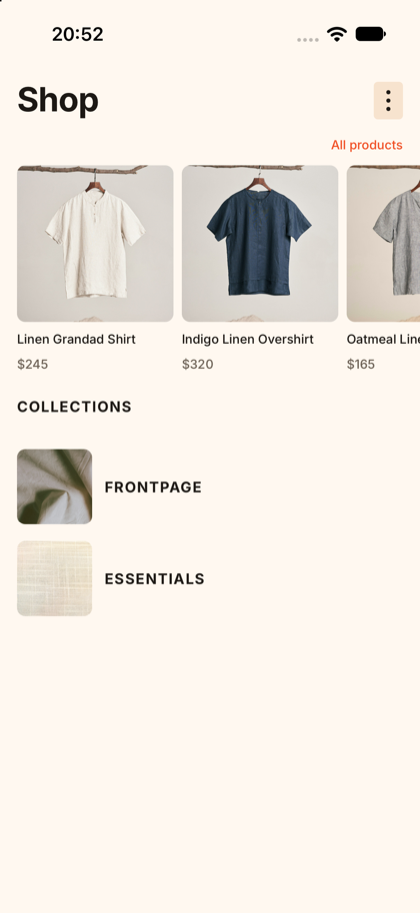
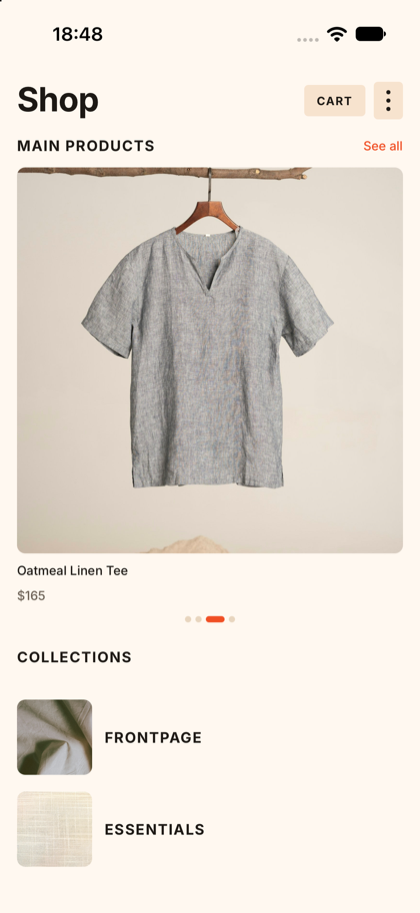
feat(docs): update README and onboarding form with new product display options and clarify image arrangements

diff --git a/README.md b/README.md
@@ -26,7 +26,7 @@ The build ships with both, and you can switch between them on the device —
 | -------------------------------- | ----------------------------------------------------------------------------- | ------------------------------------------------------------------------- |
 | **Home**                         | ![Northstar home](docs/screenshots/home.png)                                  | ![Atlas home](docs/screenshots/atlas-home.png)                            |
 | **Product detail**               | ![Northstar product detail](docs/screenshots/product-detail.png)              | ![Atlas product detail](docs/screenshots/atlas-product-detail.png)        |
-| **Further down the same screen** | ![Northstar care section and variants](docs/screenshots/product-variants.png) | ![Atlas fit and care guides](docs/screenshots/atlas-product-sections.png) |
+| **Further down the same screen** | ![Northstar care section and variants](docs/screenshots/product-variants.png) | ![Atlas variants and linen story](docs/screenshots/atlas-product-sections.png) |
 
 What actually differs, and where it is declared:
 
@@ -34,9 +34,9 @@ What actually differs, and where it is declared:
 | ------------------------ | -------------------------------------------------------------- | ---------------------------------------------- | ---------------------------------- |
 | Palette                  | near-black base, lime accent                                   | cream and clay, `#F04E23` accent               | `theme`                            |
 | Main product row         | two stacked scrolling rows                                     | a paged carousel, advancing on its own         | `layout.mainProductRow`            |
-| Main product row heading | `Products`                                                     | `Featured products`                            | `screens.home.mainProductRowTitle` |
+| Main product row heading | `Products`                                                     | `Main products`                                | `screens.home.mainProductRowTitle` |
 | Collections              | a scrolling row of tiles                                       | stacked wide rows                              | `layout.collections`               |
-| Product photos           | a gallery paged by swipe                                       | a hero photo plus a thumbnail strip            | `layout.media`                     |
+| Product photos           | a hero photo plus a thumbnail strip                            | a gallery paged by swipe                       | `layout.media`                     |
 | Badges                   | `BEST SELLER` + a boolean flag rendered as `WINTER COLLECTION` | `NEW SEASON` only                              | `screens.productDetail.badgeRow`   |
 | Text lines               | `Organic Cotton` (`custom.material`)                           | `Washed European Linen` (`custom.fabric_type`) | `screens.productDetail.textLines`  |
 | Sections                 | `HOW TO CARE`, **below** the description                       | `FIT GUIDE` and `CARE GUIDE`, **above** it     | which key under `metafields`       |
@@ -505,9 +505,9 @@ every axis moves independently — the screenshots and the per-axis diff are at
 [the top of this file](#the-same-build-two-stores).
 
 The `media` axis is the honest half of the demonstration: northstar's products carry six and four
-photos and page through them as a `gallery`, while atlas picks `filmstrip` over a catalogue of
-single-image products — and the strip quietly collapses to the one photo it has. An arrangement is
-a request, not a promise the catalogue has to keep.
+photos and pick between them from a `filmstrip`, while atlas asks for a `gallery` over a catalogue
+that is mostly single-image — and the pager quietly collapses to the one photo it has. An
+arrangement is a request, not a promise the catalogue has to keep.
 
 The fabric line is the cheap one: a merchant who calls it `fabric_type` instead of `material`,
 under a different heading, in a different place on the screen, costs one array entry — because the
@@ -544,14 +544,14 @@ photography carrying the screen, type doing the talking, one radius scale and an
 1. **Home** — the product rows, the collections, and the story sections the merchant declared,
    which come from Shopify metaobjects rather than metafields. On `northstar` the catalogue comes in
    two stacked scrolling rows under a `Products` heading and the collections scroll sideways as
-   tiles; on `atlas` it is one untitled row and stacked collection banners — same screen, same
-   code.
+   tiles; on `atlas` it is a self-advancing carousel under `Main products` and stacked collection
+   banners — same screen, same code.
 2. Tap **All products**, or a collection, to reach the grid. Same screen in both cases; the
    collection just scopes it.
 3. Tap **Northstar Essential**. This is the fully-populated case: `BEST SELLER` and
    `WINTER COLLECTION` badges, `Organic Cotton`, the promotion line, a `HOW TO CARE` section from
-   a JSON metafield, three variants, and a gallery you can page through.
-4. Tap **Black**, then **White** — the gallery moves to the selected variant's photo. Swiping back
+   a JSON metafield, three variants, and a strip of thumbnails under the photo.
+4. Tap **Black**, then **White** — the photo moves to the selected variant's. Tapping a thumbnail
    does not change the selection: the sync is one-way on purpose. **Blue** is sold out: visible,
    marked, not selectable.
 5. Go back and open **Everyday Tee**. Same screen, same code, and the merchant filled in nothing:

diff --git a/docs/merchant-onboarding-form.md b/docs/merchant-onboarding-form.md
@@ -65,13 +65,16 @@ product change, not a setting (see section 6).
 
 | Section | Options | Pick one |
 |---|---|---|
-| Home — featured products | `single` one scrolling row · `double` two stacked rows | ☐ single ☐ double |
+| Home — featured products | `single` one scrolling row · `double` two stacked rows · `carousel` one product per page, full width, advancing on its own | ☐ single ☐ double ☐ carousel |
 | Home — collections | `inline` stacked wide rows · `horizontal` one scrolling row of tiles | ☐ inline ☐ horizontal |
 | Product detail — photos | `gallery` swipe one photo at a time · `filmstrip` hero photo plus a thumbnail strip | ☐ gallery ☐ filmstrip |
 
-Both only pay off if your products carry more than one photo — see section 4. A product with
-a single image shows that image: `gallery` drops its page indicators, `filmstrip` drops the strip,
-and neither pretends a second photo failed to load.
+One free-text setting sits next to them: the heading printed above the featured products row, in
+your words — `Products`, `New in`, `Main products`: `___`
+
+The two photo arrangements only pay off if your products carry more than one photo — see section 4.
+A product with a single image shows that image: `gallery` drops its page indicators, `filmstrip`
+drops the strip, and neither pretends a second photo failed to load.
 
 ---
 
